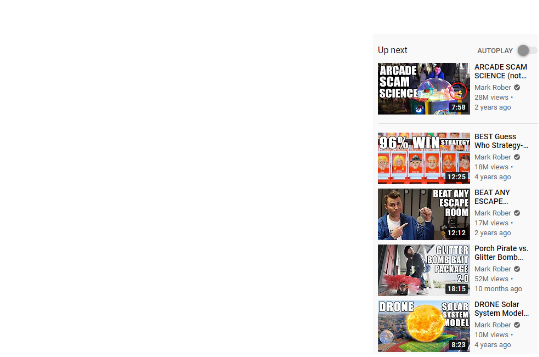
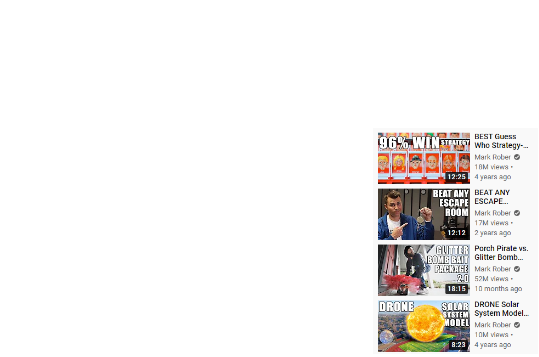
Added option to disable autoplay

Changed region(s): [[0.6827, 0.1232, 1.0, 0.3389]]

diff --git a/options.js b/options.js
@@ -11,6 +11,7 @@ const defaultSettings = {
   hidePlayerEndwall: true,
   hidePlayerRelated: true,
   hidePlayerComments: false,
+  hidePlayerAutoplay: true,
 };
 
 function toggleSettings(optionKey) {
@@ -78,6 +79,13 @@ function updateVideoplayerEndwallImage(hide) {
     videoplayerEndwallImage.style.visibility = "visible";
   }
 }
+function updateVideoplayerAutoplayImage(hide) {
+  if (hide) {
+    videoplayerAutoplayImage.style.visibility = "hidden";
+  } else {
+    videoplayerAutoplayImage.style.visibility = "visible";
+  }
+}
 
 function updateVideoplayerRelatedImage(hide) {
   if (hide) {
@@ -98,21 +106,20 @@ let homepageSidebarImage = document.getElementById("homepageSidebar");
 let videoplayerCommentsImage = document.getElementById("videoplayerComments");
 let videoplayerRelatedImage = document.getElementById("videoplayerRelated");
 let videoplayerEndwallImage = document.getElementById("videoplayerEndwall");
+let videoplayerAutoplayImage = document.getElementById("videoplayerAutoplay");
 let homepageVideosButton = document.getElementById("homepageVideosCheckbox");
 let homepageSidebarButton = document.getElementById("homepageSidebarCheckbox");
 let playerEndwallButton = document.getElementById("playerEndwallCheckbox");
 let playerCommentsButton = document.getElementById("playerCommentsCheckbox");
 let playerRelatedButton = document.getElementById("playerRelatedCheckbox");
+let playerAutoplayButton = document.getElementById("playerAutoplayCheckbox");
 
-homepageVideosButton.onclick = function () {
-  toggleSettings("hideHomepageVideos");
-};
-homepageSidebarButton.onclick = function () {
-  toggleSettings("hideHomepageSidebar");
-};
+homepageVideosButton.onclick = () => toggleSettings("hideHomepageVideos");
+homepageSidebarButton.onclick = () => toggleSettings("hideHomepageSidebar");
 playerEndwallButton.onclick = () => toggleSettings("hidePlayerEndwall");
 playerCommentsButton.onclick = () => toggleSettings("hidePlayerComments");
 playerRelatedButton.onclick = () => toggleSettings("hidePlayerRelated");
+playerAutoplayButton.onclick = () => toggleSettings("hidePlayerAutoplay");
 editVideoplayerButton.onclick = () => editVideoplayer();
 editHomepageButton.onclick = () => editHomepage();
 helpButton.onclick = () => help();
@@ -127,11 +134,13 @@ window.onload = function () {
     playerEndwallButton.checked = result.hidePlayerEndwall;
     playerCommentsButton.checked = result.hidePlayerComments;
     playerRelatedButton.checked = result.hidePlayerRelated;
+    playerAutoplayButton.checked = result.hidePlayerAutoplay;
     updateHomepageSidebarImage(result.hideHomepageSidebar);
     updateHomepageVideosImage(result.hideHomepageVideos);
     updateVideoplayerRelatedImage(result.hidePlayerRelated);
     updateVideoplayerEndwallImage(result.hidePlayerEndwall);
     updateVideoplayerCommentsImage(result.hidePlayerComments);
+    updateVideoplayerAutoplayImage(result.hidePlayerAutoplay);
     editHomepage();
   });
 };
@@ -156,6 +165,10 @@ chrome.storage.onChanged.addListener(function (changes, areaName) {
   if (changes.hidePlayerComments) {
     updateVideoplayerCommentsImage(changes.hidePlayerComments.newValue);
     playerCommentsButton.checked = changes.hidePlayerComments.newValue;
+  }
+  if (changes.hidePlayerAutoplay) {
+    updateVideoplayerAutoplayImage(changes.hidePlayerAutoplay.newValue);
+    playerAutoplayButton.checked = changes.hidePlayerAutoplay.newValue;
   }
 });
 
@@ -218,7 +231,18 @@ document
     document.querySelector(".homepage-sidebar-highlight").style.display =
       "none";
   });
-
+document
+  .querySelector(".hide-videoplayer-autoplay")
+  .addEventListener("mouseenter", () => {
+    document.querySelector(".videoplayer-autoplay-highlight").style.display =
+      "block";
+  });
+document
+  .querySelector(".hide-videoplayer-autoplay")
+  .addEventListener("mouseleave", () => {
+    document.querySelector(".videoplayer-autoplay-highlight").style.display =
+      "none";
+  });
 function resetSettings() {
   chrome.storage.sync.set(defaultSettings, () => window.location.reload());
 }

diff --git a/main.js b/main.js
@@ -6,6 +6,14 @@ function hideDistractions() {
   document.body.classList.add("yf-hide");
 }
 
+function updateAutoplay() {
+  chrome.storage.sync.get(defaultSettings, function (result) {
+    if (result.hidePlayerAutoplay) {
+      disableAutoplay();
+    }
+  });
+}
+
 function disableAutoplay() {
   const autoplayOnButton = document.querySelector(
     "paper-toggle-button[aria-pressed='true']"
@@ -28,22 +36,24 @@ const defaultSettings = {
   hidePlayerEndwall: true,
   hidePlayerRelated: true,
   hidePlayerComments: false,
+  hidePlayerAutoplay: true,
   isShowing: true,
 };
 window.onload = function () {
   chrome.storage.sync.get(defaultSettings, function (result) {
     if (result.isShowing === false) {
       hideDistractions();
-      disableAutoplay();
+      updateAutoplay();
     }
-    // Special case because it was popping up on refresh
-    showElement("#guide-content");
-    showElement("body", "block");
     updateHomepageSidebarClass(result.hideHomepageSidebar);
     updateHomepageVideosClass(result.hideHomepageVideos);
     updateVideoplayerRelatedClass(result.hidePlayerRelated);
     updateVideoplayerEndwallClass(result.hidePlayerEndwall);
     updateVideoplayerCommentsClass(result.hidePlayerComments);
+    updateVideoplayerAutoplayClass(result.hidePlayerAutoplay);
+    // Special case because it was popping up on refresh
+    showElement("#guide-content");
+    showElement("body", "block");
   });
 };
 
@@ -51,7 +61,7 @@ chrome.storage.onChanged.addListener(function (changes, areaName) {
   if (changes.isShowing !== undefined) {
     if (changes.isShowing.newValue === false) {
       hideDistractions();
-      disableAutoplay();
+      updateAutoplay();
     } else {
       showDistractions();
     }
@@ -72,6 +82,10 @@ chrome.storage.onChanged.addListener(function (changes, areaName) {
   }
   if (changes.hidePlayerComments) {
     updateVideoplayerCommentsClass(changes.hidePlayerComments.newValue);
+  }
+  if (changes.hidePlayerAutoplay) {
+    updateVideoplayerAutoplayClass(changes.hidePlayerAutoplay.newValue);
+    updateAutoplay();
   }
 });
 function updateHomepageSidebarClass(val) {
@@ -107,5 +121,12 @@ function updateVideoplayerCommentsClass(val) {
     document.body.classList.add("videoplayer-comments-hide");
   } else {
     document.body.classList.remove("videoplayer-comments-hide");
+  }
+}
+function updateVideoplayerAutoplayClass(val) {
+  if (val) {
+    document.body.classList.add("videoplayer-autoplay-hide");
+  } else {
+    document.body.classList.remove("videoplayer-autoplay-hide");
   }
 }

diff --git a/options.html b/options.html
@@ -144,19 +144,7 @@
       color: #4a4a4a;
       margin-bottom: 32px;
     }
-    .hide-homepage-videos:hover {
-      background-color: #f2f2f2;
-    }
-    .hide-homepage-sidebar:hover {
-      background-color: #f2f2f2;
-    }
-    .hide-videoplayer-related:hover {
-      background-color: #f2f2f2;
-    }
-    .hide-videoplayer-endwall:hover {
-      background-color: #f2f2f2;
-    }
-    .hide-videoplayer-comments:hover {
+    .checkbox-and-text:hover {
       background-color: #f2f2f2;
     }
 
@@ -173,6 +161,9 @@
       display: none;
     }
     .homepage-sidebar-highlight {
+      display: none;
+    }
+    .videoplayer-autoplay-highlight {
       display: none;
     }
     .support {
@@ -335,6 +326,14 @@
                   />
                   <div class="informational-text">Hide Related</div>
                 </div>
+                <div class="checkbox-and-text hide-videoplayer-autoplay">
+                  <input
+                    type="checkbox"
+                    class="checkbox"
+                    id="playerAutoplayCheckbox"
+                  />
+                  <div class="informational-text">Disable Autoplay</div>
+                </div>
                 <div class="checkbox-and-text hide-videoplayer-comments">
                   <input
                     type="checkbox"
@@ -363,6 +362,11 @@
               />
               <img
                 class="can-change"
+                id="videoplayerAutoplay"
+                src="images/videoplayerAutoplay.png"
+              />
+              <img
+                class="can-change"
                 id="videoplayerEndwall"
                 src="images/videoplayerVideos.png"
               />
@@ -373,6 +377,10 @@
               <img
                 class="can-change videoplayer-related-highlight"
                 src="images/videoplayerRelatedHighlight.png"
+              />
+              <img
+                class="can-change videoplayer-autoplay-highlight"
+                src="images/videoplayerAutoplayHighlight.png"
               />
               <img
                 class="can-change videoplayer-videos-highlight"

diff --git a/hide.css b/hide.css
@@ -6,13 +6,6 @@ body {
   visibility: hidden;
 }
 
-body.yf-hide.homepage-videos-hide ytd-rich-grid-renderer,
-body.yf-hide.homepage-videos-hide ytd-video-masthead-ad-v3-renderer,
-body.yf-hide.homepage-sidebar-hide ytd-mini-guide-renderer,
-body.yf-hide.videoplayer-endwall-hide .videowall-endscreen,
-body.yf-hide.videoplayer-related-hide #upnext {
-  visibility: hidden;
-}
 /* Hide everything but settings */
 body.yf-hide.homepage-sidebar-hide
   ytd-guide-section-renderer:first-child
@@ -23,16 +16,19 @@ body.yf-hide.homepage-sidebar-hide
   display: none;
 }
 
-body.yf-hide.videoplayer-related-hide #items.ytd-watch-next-secondary-results-renderer,
-/* video below autoplay */
-body.yf-hide.videoplayer-related-hide #contents.ytd-compact-autoplay-renderer,
-/* Ad above autoplay */
-body.yf-hide.videoplayer-related-hide #companion,
-body.yf-hide.videoplayer-comments-hide .ytd-comments {
+body.yf-hide.videoplayer-related-hide
+  .ytd-watch-next-secondary-results-renderer:not(:first-child),
+body.yf-hide.videoplayer-autoplay-hide ytd-compact-autoplay-renderer,
+body.yf-hide.videoplayer-comments-hide .ytd-comments,
+body.yf-hide.homepage-videos-hide ytd-rich-grid-renderer,
+body.yf-hide.homepage-videos-hide ytd-video-masthead-ad-v3-renderer,
+body.yf-hide.homepage-sidebar-hide ytd-mini-guide-renderer,
+body.yf-hide.videoplayer-endwall-hide .videowall-endscreen {
   display: none;
 }
 
 /* Hiding some popup ads by default*/
+body.yf-hide #companion,
 body.yf-hide .ytp-ad-text-overlay,
 body.yf-hide .ytp-ad-overlay-image,
 body.yf-hide .ytp-ad-overlay-container,
